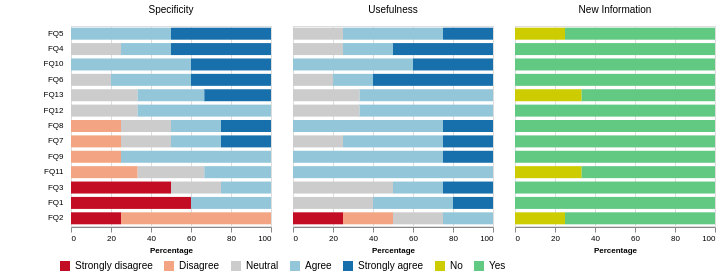
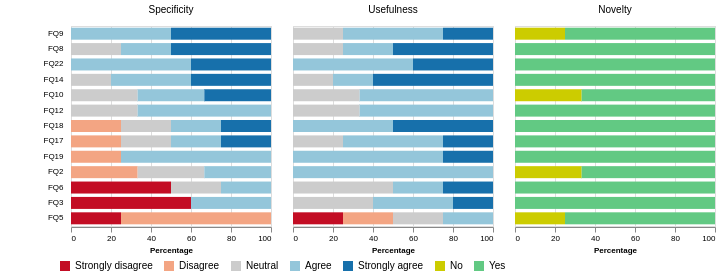
FQ renumbered

diff --git a/visualization/visualization_per_br.py b/visualization/visualization_per_br.py
@@ -34,7 +34,8 @@ def main(args):
         x=alt.X('percentage:Q', title='Percentage',
                 axis=alt.Axis(format='.0f')),
         y=alt.Y('id:N', axis=y_axis,
-                sort=["FQ5", "FQ4", "FQ10", "FQ6", "FQ13", "FQ12", "FQ8", "FQ7", "FQ9", "FQ11", "FQ3", "FQ1", "FQ2", ]),
+                sort=["FQ9", "FQ8", "FQ22", "FQ14", "FQ10", "FQ12", "FQ18", "FQ17", "FQ19", "FQ2", "FQ6", "FQ3",
+                      "FQ5"]),
         color=alt.Color(
             'type:N',
             legend=alt.Legend(orient='bottom', title='', padding=-12),
